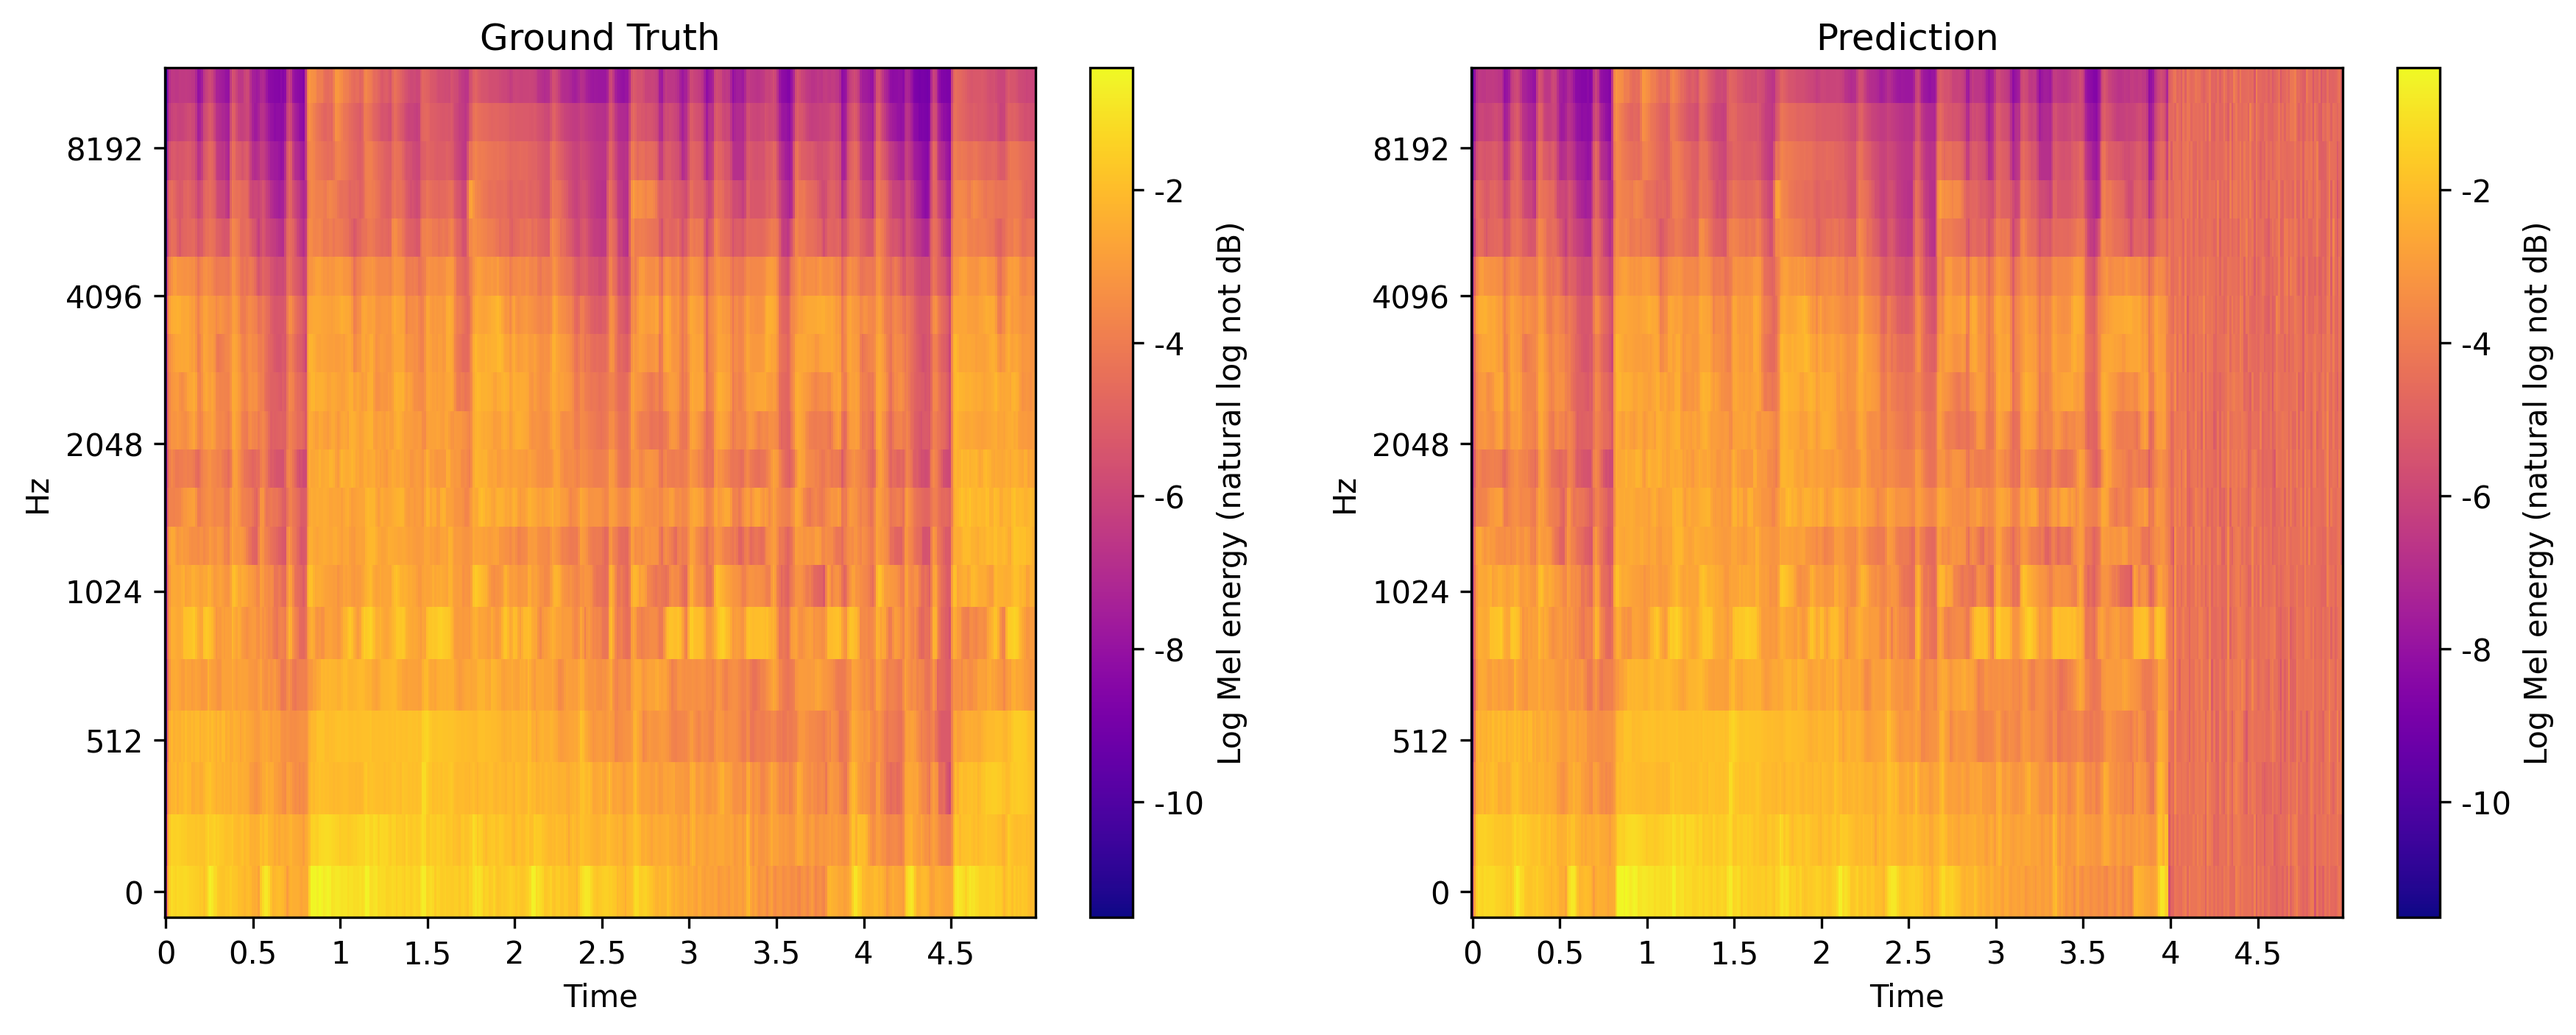
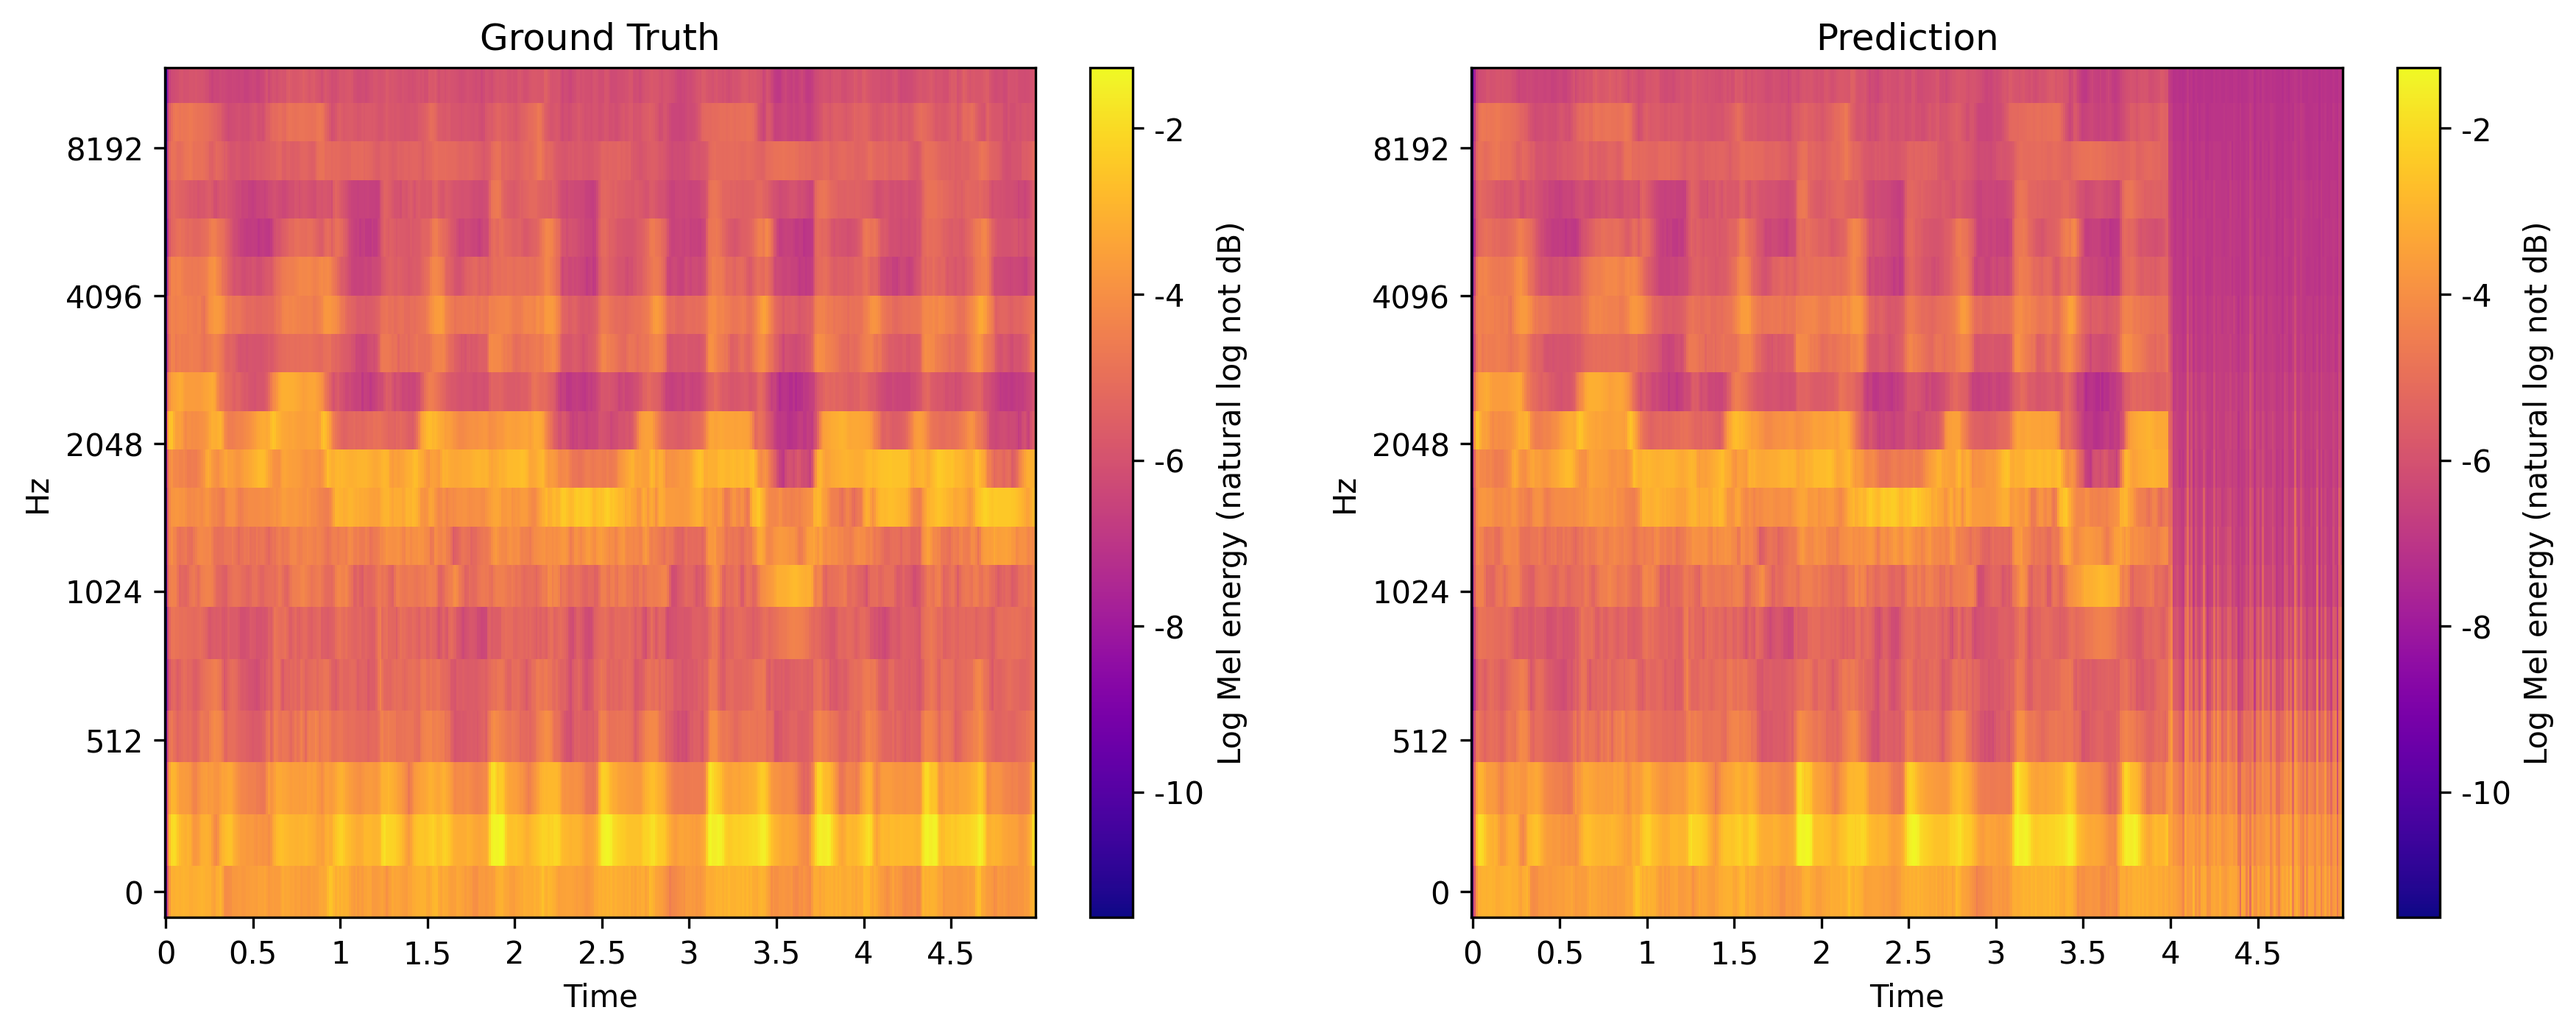
adding separate positional encodings for time and frequency rather than one pos emb for both

diff --git a/specmodel/mel_model.py b/specmodel/mel_model.py
@@ -12,22 +12,22 @@ class MelTransformerFrameBin(nn.Module):
     def __init__(
         self,
         n_mels,
+        max_time_frames,
         d_model=128,
         n_heads=4,
         n_layers=4,
         dim_feedforward=512,
-        dropout=0.1,
-        max_len=2000  # for positional encoding
-
+        dropout=0.1
     ):
+        self.n_mels = n_mels
+        self.max_time_frames = max_time_frames
+
         super(MelTransformerFrameBin, self).__init__()
 
         self.input_proj = nn.Linear(1, d_model)
 
-        #TODO: change max_lemb_emb, T*F = ~26000
-        max_len_emb = 26000
-        #TODO: Implement specific frequency and time encodings
-        self.pos_embedding = nn.Parameter(torch.randn(1, max_len_emb, d_model))
+        self.time_embed = nn.Embedding(self.max_time_frames, d_model)
+        self.freq_embed = nn.Embedding(self.n_mels, d_model)
 
         encoder_layer = nn.TransformerEncoderLayer(
             d_model=d_model,
@@ -51,8 +51,20 @@ class MelTransformerFrameBin(nn.Module):
 
         x = self.input_proj(x)  # (B, L, D)
 
-        L = x.size(1)
-        x = x + self.pos_embedding[:, :L, :]
+        B, L, D = x.shape
+        F = self.n_mels
+
+        T = (L + F - 1) // F  # ceil division
+
+        time_indices = torch.arange(T, device=x.device).unsqueeze(1).expand(T, F).reshape(-1) #[0,0,0,..., 1,1,1,..., 2,2,2,...]
+        freq_indices = torch.arange(F, device=x.device).unsqueeze(0).expand(T, F).reshape(-1)
+
+        time_indices = time_indices[:L]
+        freq_indices = freq_indices[:L]
+
+        pos = self.time_embed(time_indices) + self.freq_embed(freq_indices)
+        pos = pos.unsqueeze(0)
+        x = x + pos
 
         mask = generate_causal_mask(L, x.device)
 

diff --git a/specmodel/mel_trainer.py b/specmodel/mel_trainer.py
@@ -76,6 +76,7 @@ def main():
     D_FF = mel_config['dim_feedforward']
     DROPOUT = mel_config['dropout']
 
+    max_time_frames = int(CLIP_LENGTH * SAMPLE_RATE / HOP_LENGTH)
     
     full_dataset = MelMaskedDataset(
     mel_dir=args.mel_dir,
@@ -92,12 +93,13 @@ def main():
     try:
         if(args.model == "MelTransformerFrameBin"):
             model = MelTransformerFrameBin(
-            n_mels=N_MELS, 
+            n_mels=N_MELS,
+            max_time_frames=max_time_frames, 
             d_model=D_MODEL, 
             n_heads=N_HEADS, 
             n_layers=N_LAYERS,
             dim_feedforward=D_FF,
-            dropout=DROPOUT
+            dropout=DROPOUT, 
             )
         elif(args.model == "MelTransformerFrame"):
             model = MelTransformerFrame(
